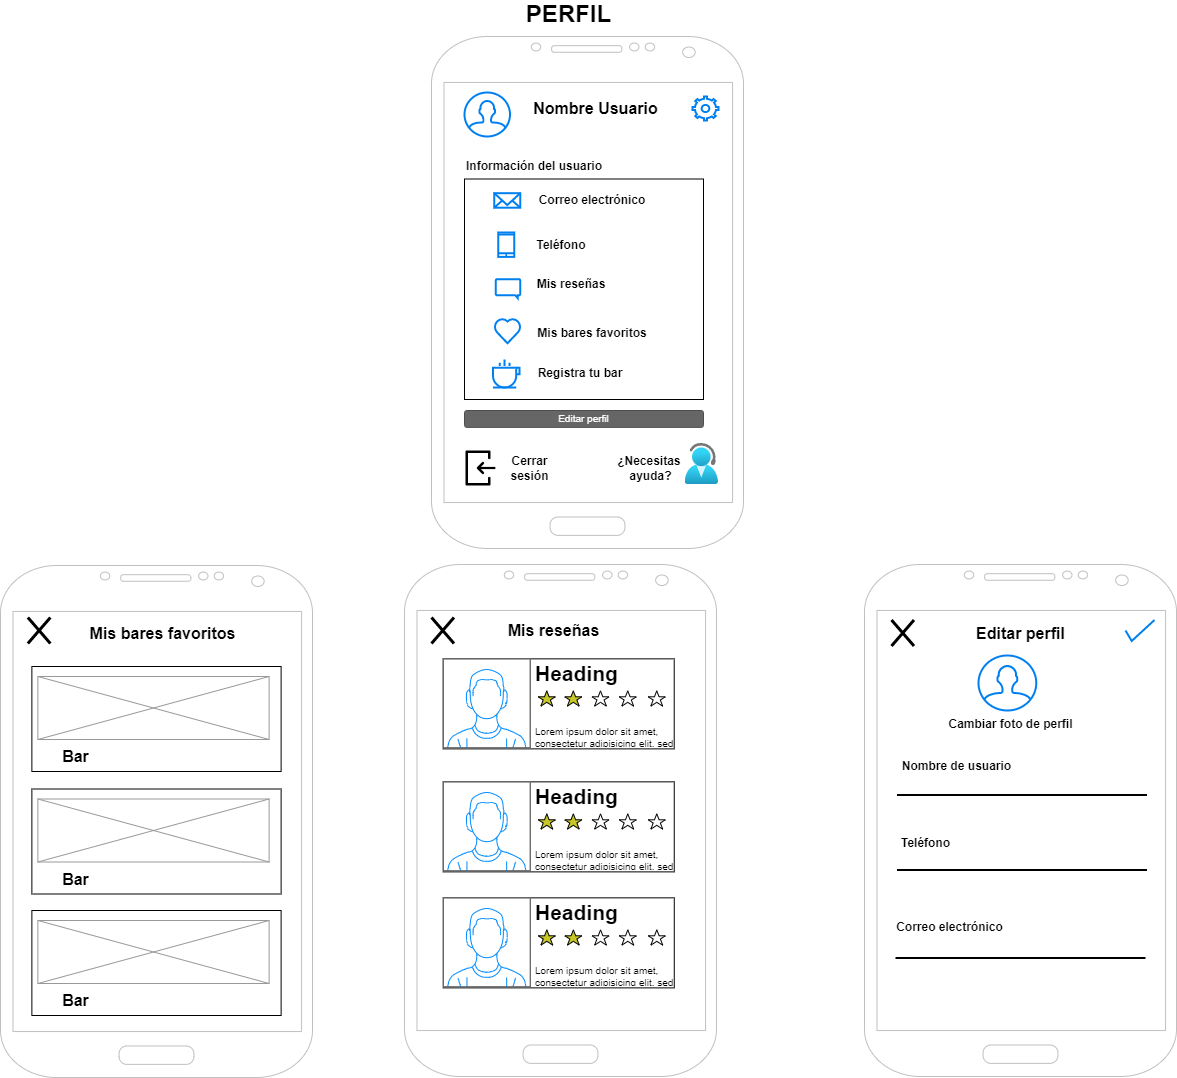
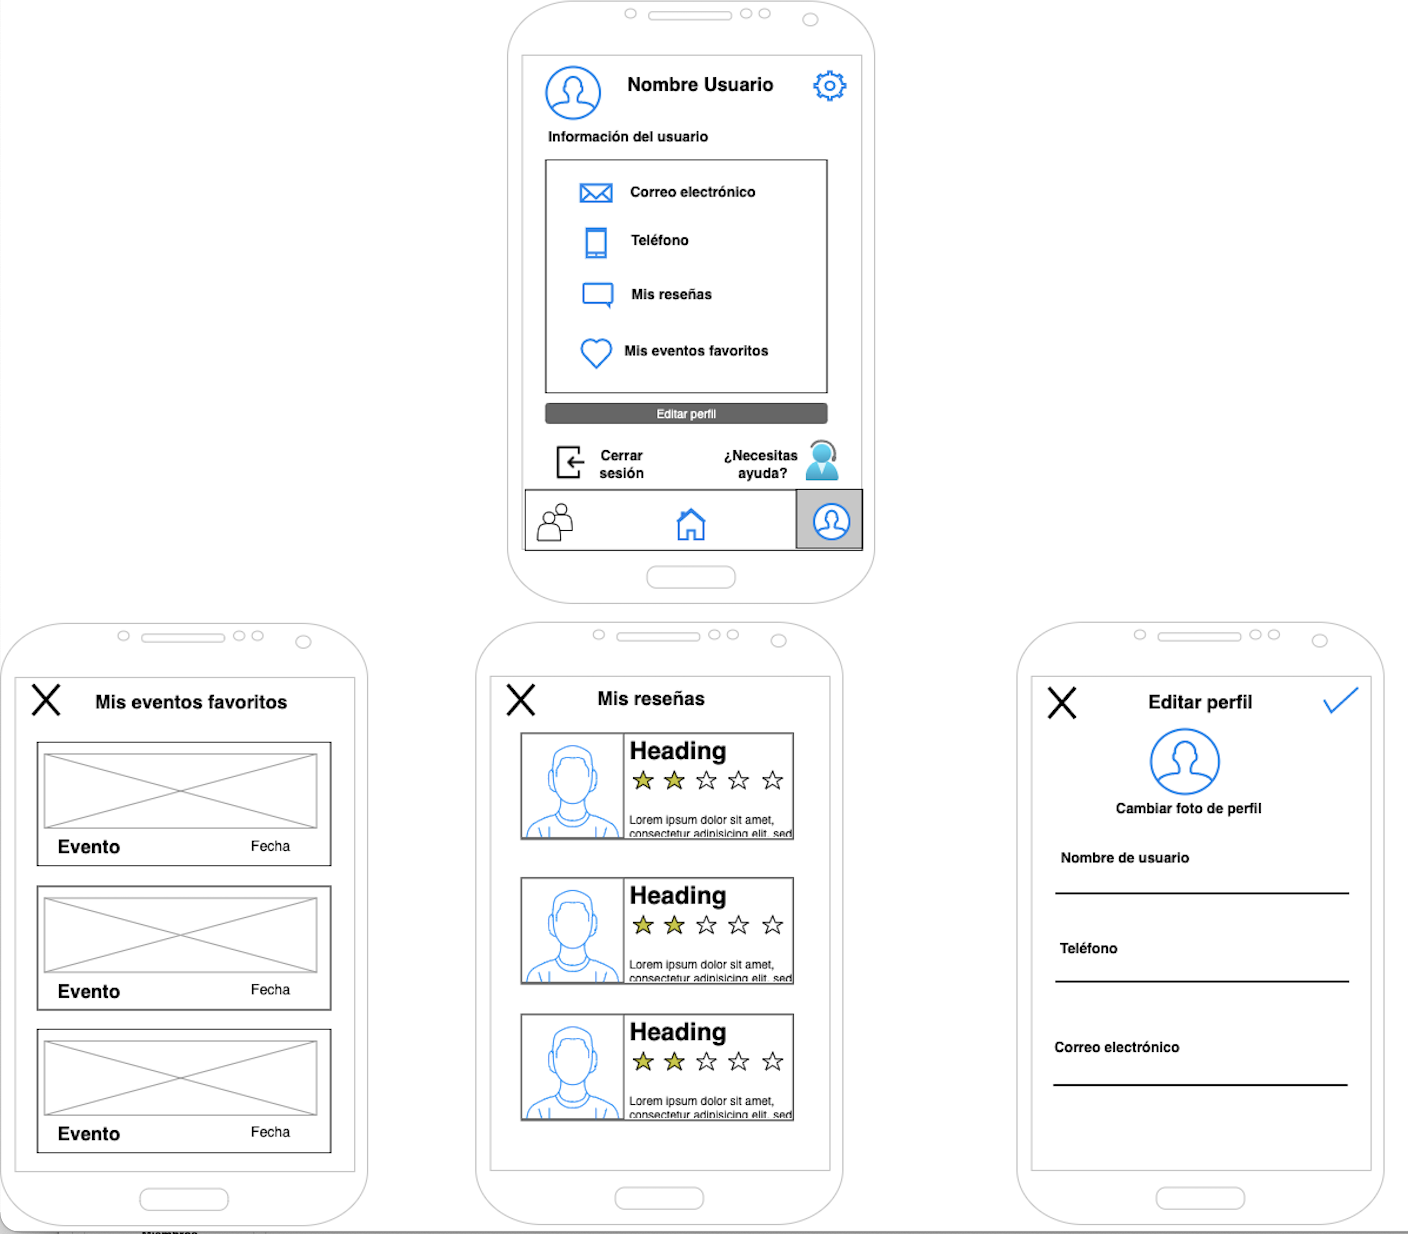
updated

diff --git a/README.md b/README.md
@@ -119,14 +119,17 @@ La aplicación tendrá como fin dar una alternativa a la propuesta cultural del 
 
 ![Método UX](img/Wireframes.png) 2.d Wireframes
 -----
+## SPLASH SCREEN
+![splashScreen](P2/splash-screen.png)
+
 ## INICIO DE SESIÓN
 ![inicioSesion](P2/inicio-sesion.png)
 
 ## PÁGINA PRINCIPAL
 ![pagPrincipal](P2/pag-principal.png)
 
-## BAR
-![bar](P2/bar.png)
+## EVENTO
+![bar](P2/evento.png)
 
 ### Más información
 ![masinfo](P2/mas-info-evento.png)
@@ -134,9 +137,6 @@ La aplicación tendrá como fin dar una alternativa a la propuesta cultural del 
 ### Reseña y valoraciones
 ![reseña](P2/reseña.png)
 
-## CATEGORÍAS / BÚSQUEDA
-![catPrinc](P2/categoria-principal.png)
-![cat](P2/categoria.png)
 
 ## GRUPOS
 ![gruposPag](P2/pag-grupos.png)
@@ -145,9 +145,6 @@ La aplicación tendrá como fin dar una alternativa a la propuesta cultural del 
 
 ## PERFIL
 ![perfil](P2/perfil.png)
-![registrarBar](P2/register-bar.png)
-![editarBar](P2/edit-bar.png)
-![addEvento](P2/add-evento.png)
 
 ### Configuración
 ![configuracion](P2/configuracion.png)
